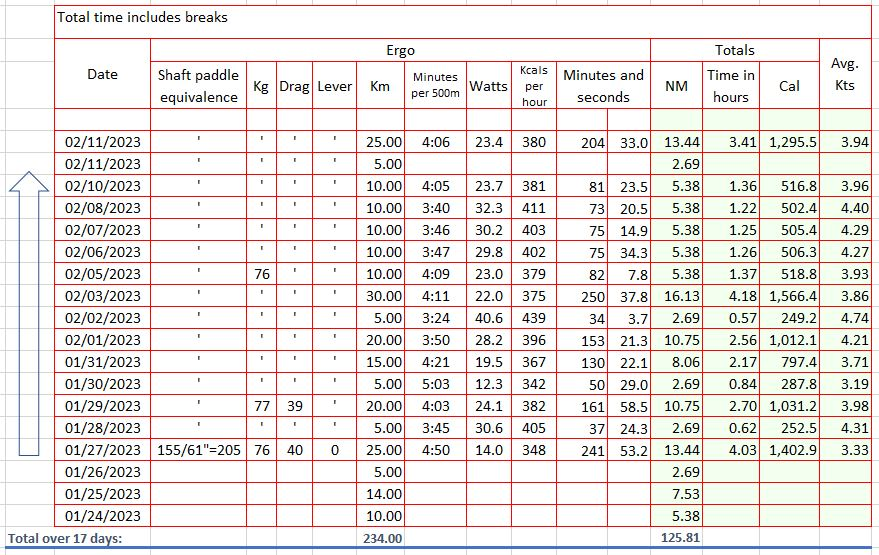
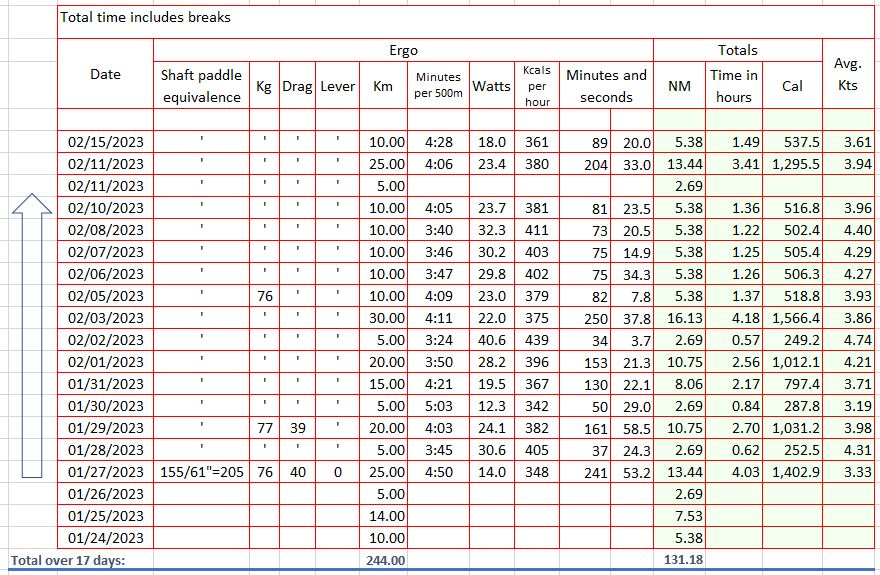
update

diff --git a/dry-run/log/index.html b/dry-run/log/index.html
@@ -214,11 +214,11 @@ $(document).ready(function(){
 <p>These runs are in a perfect environment on an ergometer, with no boat weight and actual conditions.</p>
 </blockquote>
 <blockquote>
-<p>February 11, 2023</p>
+<p>February 15, 2023</p>
 </blockquote>
-<p><img src="/img/feb11.JPG" alt="February 11">
+<p><img src="/img/feb15.JPG" alt="February 15">
 <div style="text-align: center">
-125.8 nautical miles, or 234 Km
+131 nautical miles, or 244 Km
 </div>
 </p>
 <p><img src="/img/Stats.JPG" alt="Stats">
